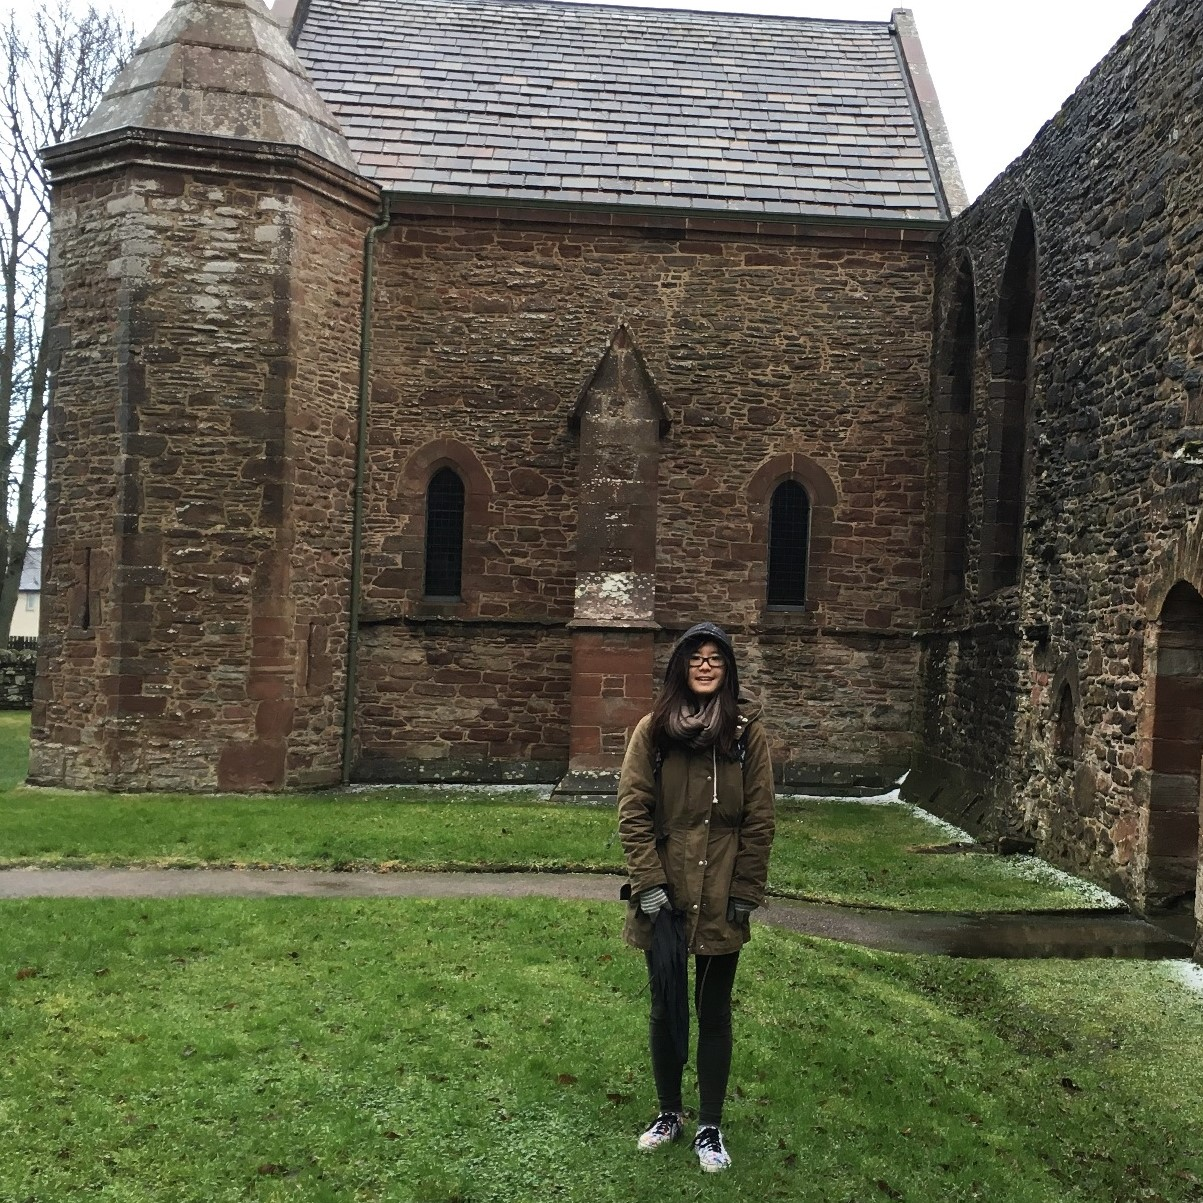
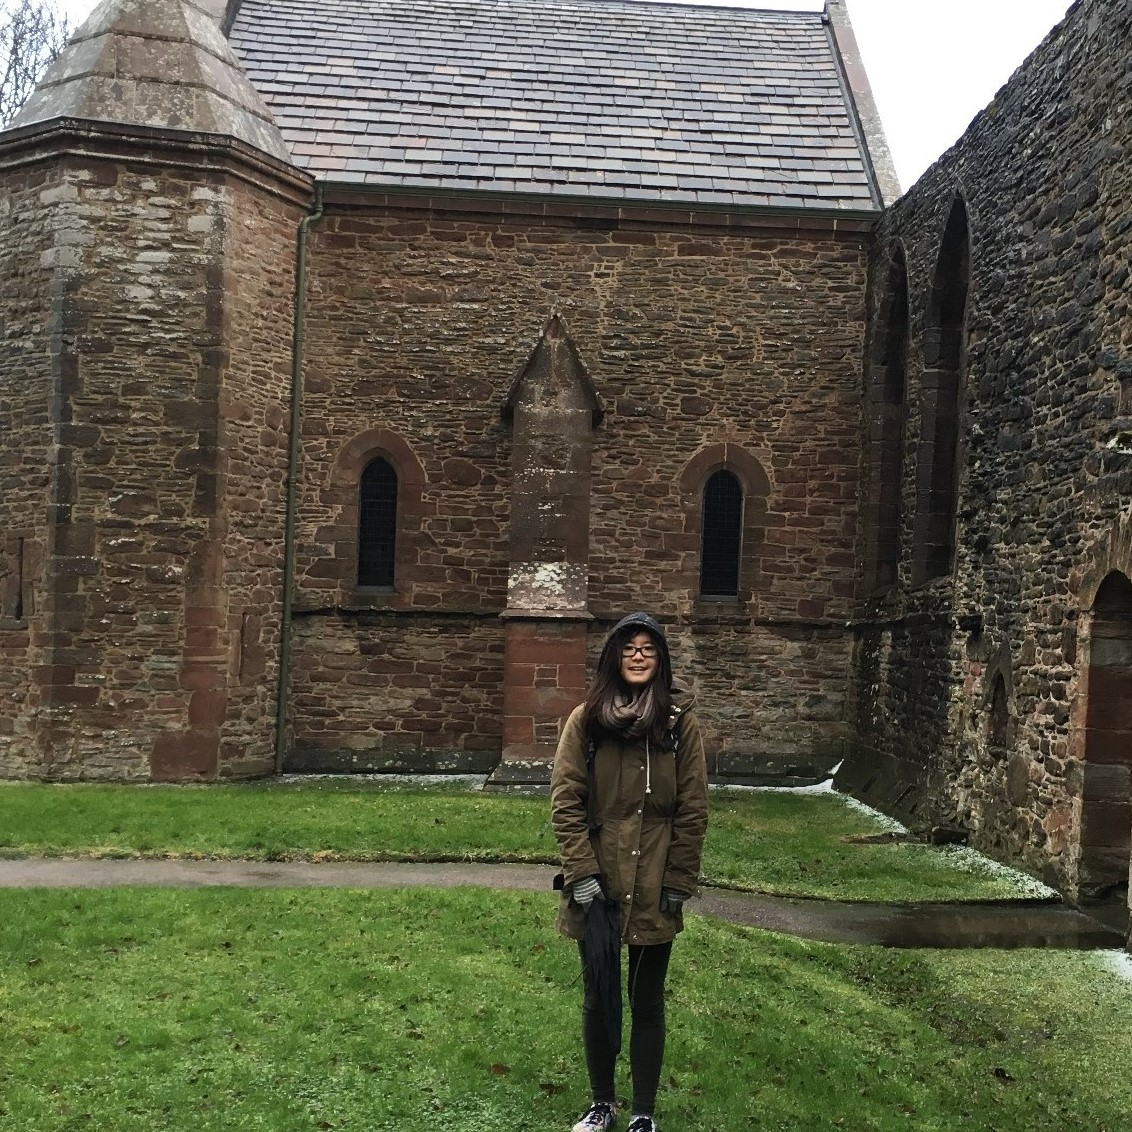
toggle3

diff --git a/index.html b/index.html
@@ -24,6 +24,17 @@ function toggle() {
         image.src = "photo.jpg";
     }
 }
+
+function toggle3() {
+    var image = document.getElementById('portrait');
+    if (image.src.match("photo.jpg")) {
+        image.src = "photo3.jpg";
+    } else if (image.src.match("photo3.jpg")) {
+        image.src = "photo22.jpg";
+    } else {
+        image.src = "photo.jpg";
+    }
+}
 </script>
 <div id="wrap">
 <div id ="left_col">
@@ -128,7 +139,7 @@ Schr&oumldinger Equation</td>
 <hr>
 </div>
 <div id ="right_col" style="font-family:courier;">
-  <img id="portrait" src="photo.jpg" onclick="toggle()" alt = "my photo" width="300" height="300">
+  <img id="portrait" onclick="toggle3()" src="photo.jpg" alt = "my photo" width="300" height="300">
 <p>CV</p>
 <p>Email: <i>ruz015 at eng dot ucsd dot edu</i></p>
 <br>
